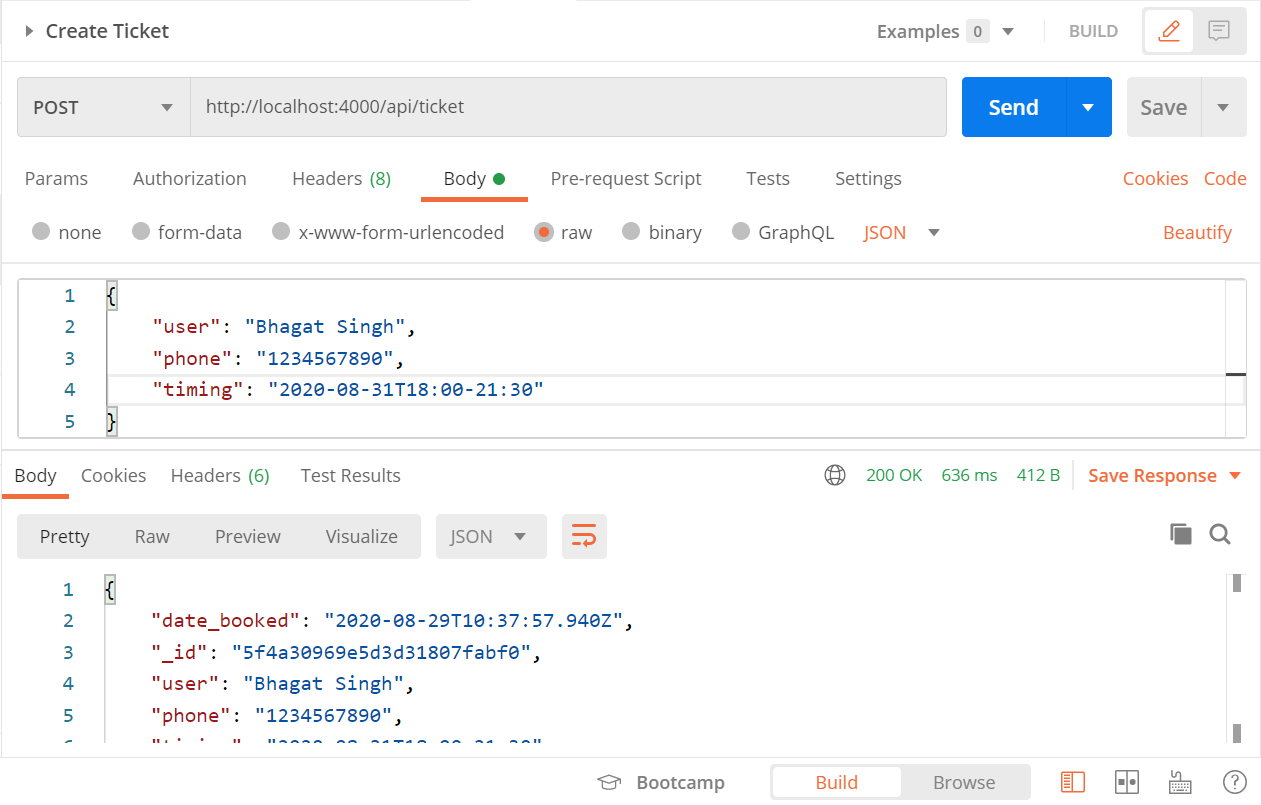
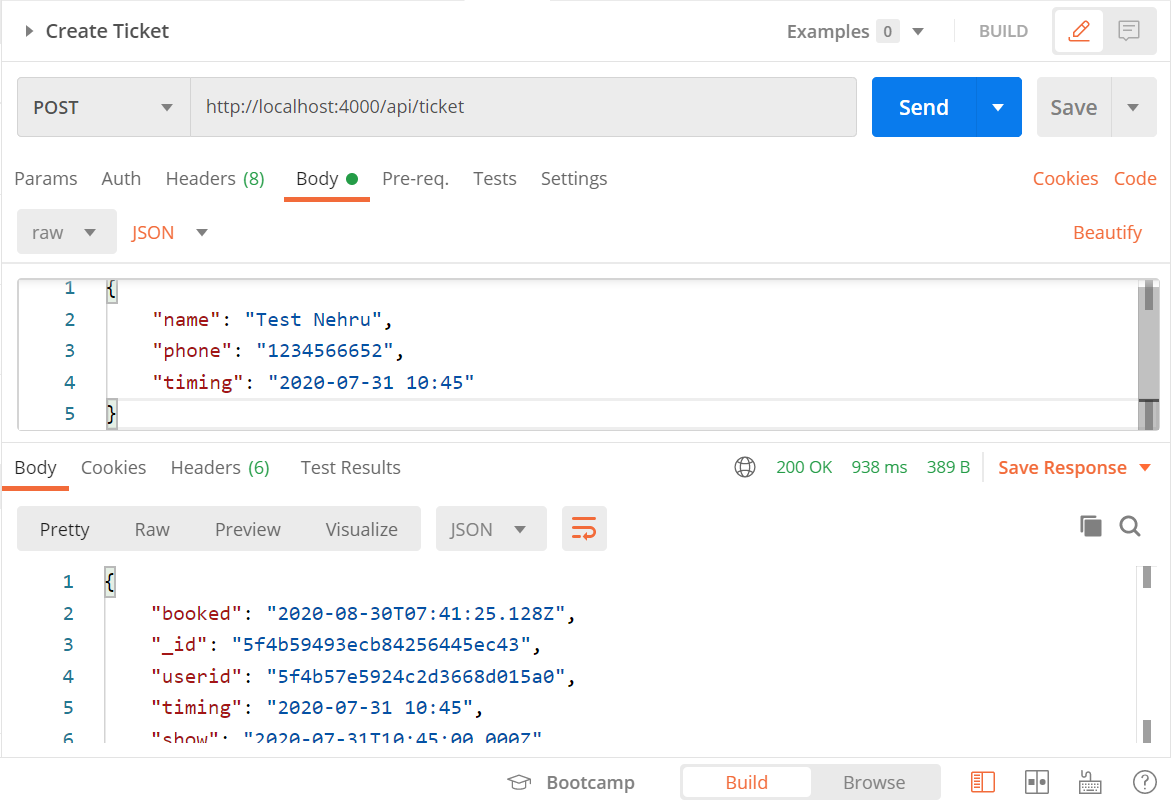
added user schema

diff --git a/api/ticket.js b/api/ticket.js
@@ -1,6 +1,7 @@
 const express = require('express');
 const router = express.Router();
 const Ticket = require('../model/ticket');
+const User = require('../model/user');
 const { check, validationResult } = require('express-validator');
 
 
@@ -10,7 +11,7 @@ const { check, validationResult } = require('express-validator');
 
 router.post('/', [
     check(
-        'user',
+        'name',
         'Username is required'
     ).not().isEmpty(),
     check(
@@ -22,22 +23,30 @@ router.post('/', [
         'Timing is required'
     ).not().isEmpty()
 ], async (req, res) => {
-    const errors = validationResult(req);
 
+    const errors = validationResult(req);
     if (!errors.isEmpty()) {
         return res.status(400).json({ errors: errors.array() });
     }
 
-    const { timing } = req.body;
-    const show_date = new Date(timing.slice(0, timing.length - 6) + 'Z');
-    const newTicket = { ...req.body, show_date };
-
     try {
-
-        const tickets = await Ticket.find({ timing: req.body.timing });
-
-        if (tickets.length >= 20)
+        const { name, phone, timing } = req.body;
+        const tickets = await Ticket.find({ timing });
+        if (tickets.length >= 20) {
             return res.status(400).json({ msg: 'No more tickets can be booked for this time slot' });
+        }
+
+        let user = await User.findOne({ phone });
+        if (!user) {
+            user = new User({ name, phone });
+            await user.save();
+        }
+
+        const newTicket = {
+            userid: user.id,
+            timing,
+            show: new Date(timing.split(' ').join('T') + 'Z')
+        }
 
         const ticket = new Ticket(newTicket);
         await ticket.save();
@@ -54,7 +63,7 @@ router.post('/', [
 
 router.get('/', async (req, res) => {
     try {
-        const tickets = await Ticket.find({}).sort({ show_date: -1 });
+        const tickets = await Ticket.find({}).sort({ booked: -1 });
         res.json(tickets);
     } catch (error) {
         console.error(error.message);
@@ -74,7 +83,6 @@ router.put('/:id', [
 ], async (req, res) => {
 
     const errors = validationResult(req);
-
     if (!errors.isEmpty()) {
         return res.status(400).json({ errors: errors.array() });
     }
@@ -90,7 +98,7 @@ router.put('/:id', [
             {
                 $set: {
                     timing,
-                    show_date: new Date(timing.slice(0, timing.length - 6) + 'Z')
+                    show: new Date(timing.split(' ').join('T') + 'Z')
                 }
             },
             { new: true }
@@ -128,7 +136,7 @@ router.delete('/:id', async (req, res) => {
 
 router.get('/:time', async (req, res) => {
     try {
-        const tickets = await Ticket.find({ timing: req.params.time }).sort({ show_date: -1 });
+        const tickets = await Ticket.find({ timing: req.params.time }).sort({ booked: -1 });
         res.json(tickets);
     } catch (error) {
         console.error(error.message);
@@ -142,9 +150,12 @@ router.get('/:time', async (req, res) => {
 
 router.get('/user/:id', async (req, res) => {
     try {
-        const detail = await Ticket.findById(req.params.id);
-        const { user, phone } = detail;
-        res.json({ user, phone });
+        const ticket = await Ticket.findById(req.params.id);
+        if (!ticket) {
+            return res.status(400).json({ msg: 'Ticket not found' });
+        }
+        const user = await User.findById(ticket.userid);
+        res.json(user);
     } catch (error) {
         console.error(error.message);
         res.status(500).send('Server Error');

diff --git a/server.js b/server.js
@@ -16,7 +16,7 @@ connectDB();
 // every 8 hours
 cron.schedule("* * * * *", async () => {
     try {
-        const result = await Ticket.find({ show_date: { $lt: new Date() - (8 * 60 * 60 * 1000) } });
+        const result = await Ticket.find({ show: { $lt: new Date() - (8 * 60 * 60 * 1000) } });
         if (Array.isArray(result) && result.length > 0) {
             const pathtofile = path.resolve(__dirname, 'logs', 'logs.txt');
             const log = fs.createWriteStream(pathtofile, { flags: 'a' });
@@ -26,7 +26,7 @@ cron.schedule("* * * * *", async () => {
             });
             log.end();
 
-            await Ticket.deleteMany({ show_date: { $lt: new Date() - (8 * 60 * 60 * 1000) } });
+            await Ticket.deleteMany({ show: { $lt: new Date() - (8 * 60 * 60 * 1000) } });
             console.log('Old Tickets Deleted');
         }
     } catch (error) {

diff --git a/model/ticket.js b/model/ticket.js
@@ -2,23 +2,19 @@ const mongoose = require('mongoose');
 const Schema = mongoose.Schema;
 
 const TicketSchema = new Schema({
-    user: {
-        type: String,
-        required: true
-    },
-    phone: {
-        type: String,
+    userid: {
+        type: mongoose.Schema.Types.ObjectId,
+        ref: 'user',
         required: true
     },
     timing: {
         type: String,
         required: true
     },
-    show_date: {
-        type: Date,
-        required: true
+    show: {
+        type: Date
     },
-    date_booked: {
+    booked: {
         type: Date,
         default: new Date()
     }

diff --git a/model/user.js b/model/user.js
@@ -1,0 +1,17 @@
+const mongoose = require('mongoose');
+const Schema = mongoose.Schema;
+
+const UserSchema = new Schema({
+    name: {
+        type: String,
+        required: true
+    },
+    phone: {
+        type: String,
+        required: true
+    }
+});
+
+const User = mongoose.model('user', UserSchema);
+module.exports = User;
+

diff --git a/readme.md b/readme.md
@@ -67,4 +67,4 @@ npm start
 ### Cron-Job
 To delete tickets automatically, cron-job has been used.
 It automatically deletes old tickets from database and stores them in logs.txt file in log folder.
-To achieve automatic deletion the timing entered by the user when creating a ticket, is first changed into javascript's date object, so that we can perform substraction on it, and is stored as show_time. Then we subtract 8 hours from current time and search for all tickets having show_time less than that.
+To achieve automatic deletion the timing entered by the user when creating a ticket, is first changed into javascript's date object, so that we can perform substraction on it, and is stored as show. Then we subtract 8 hours from current time and search for all tickets having show less than that.
